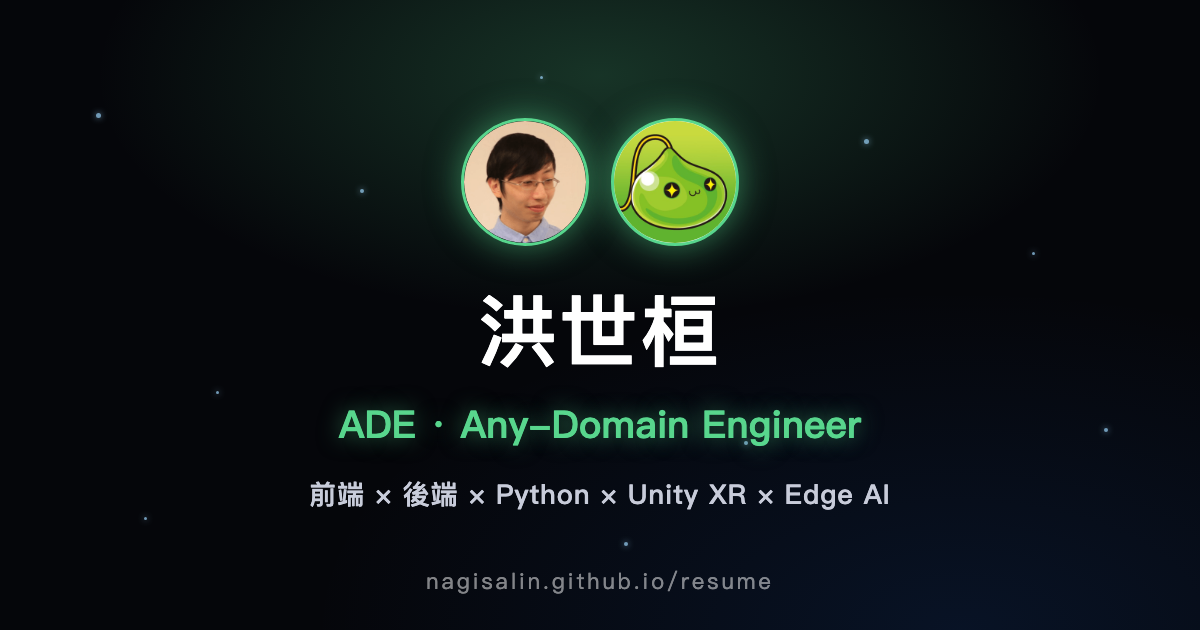
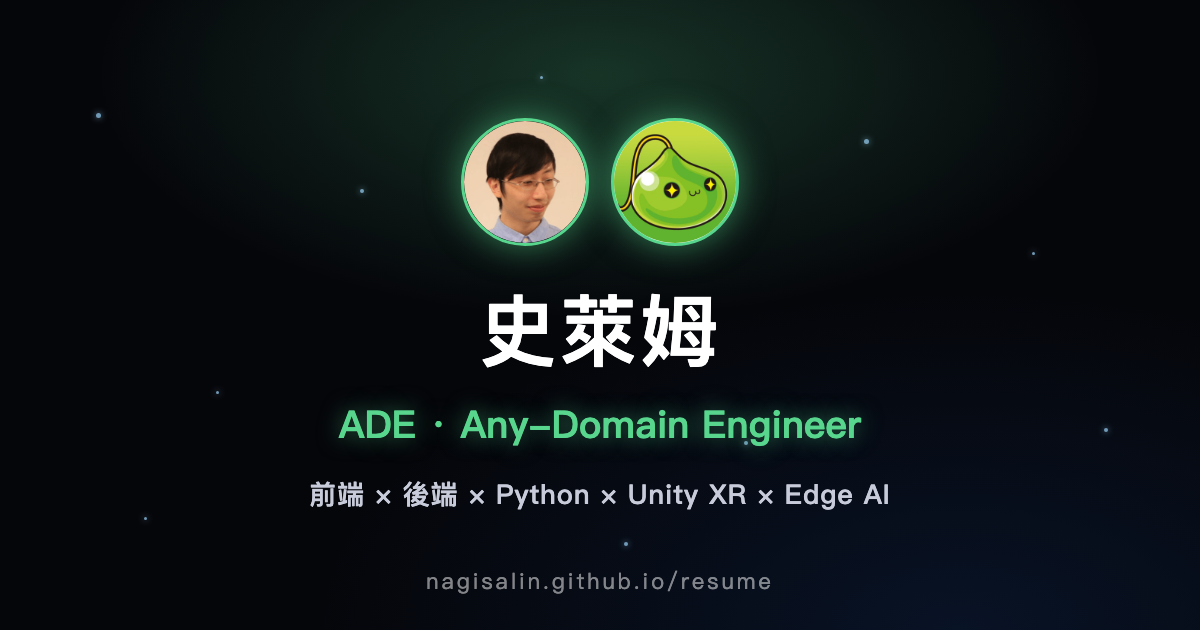
公開網站改用史萊姆 persona(在職期間降低可識別性)
- Hero 姓名 洪世桓 → 史萊姆(真人照+logo 皆保留)
- 頁面 title 與 OG/Twitter meta 同步改史萊姆
- 重新產生 OG 分享卡(og-image.png)
- 真名僅保留在 104 正式履歷

Changed region(s): [[0.4008, 0.4524, 0.6167, 0.6032]]

diff --git a/public/index.html b/public/index.html
@@ -4,21 +4,21 @@
 		<meta charset="utf-8" />
 		<meta name="viewport" content="width=device-width, initial-scale=1" />
 		<meta name="theme-color" content="#05060a" />
-		<meta name="description" content="洪世桓的互動履歷 — ADE · Any-Domain Engineer。前端 × 後端 × Python × Unity XR × Edge AI，一路把沒做過的領域做上線。" />
+		<meta name="description" content="史萊姆的互動履歷 — ADE · Any-Domain Engineer。前端 × 後端 × Python × Unity XR × Edge AI，一路把沒做過的領域做上線。" />
 
-		<title>洪世桓 · ADE — Any-Domain Engineer</title>
+		<title>史萊姆 · ADE — Any-Domain Engineer</title>
 
 		<!-- 社群分享預覽卡（Threads / FB / LINE / X 等）-->
 		<meta property="og:type" content="website" />
 		<meta property="og:url" content="https://nagisalin.github.io/resume/" />
-		<meta property="og:title" content="洪世桓 · ADE — Any-Domain Engineer" />
+		<meta property="og:title" content="史萊姆 · ADE — Any-Domain Engineer" />
 		<meta property="og:description" content="「哪都能做」工程師。前端 × 後端 × Python × Unity XR × Edge AI，一路把沒做過的領域做上線。" />
 		<meta property="og:image" content="https://nagisalin.github.io/resume/og-image.png" />
 		<meta property="og:image:width" content="1200" />
 		<meta property="og:image:height" content="630" />
 		<meta property="og:locale" content="zh_TW" />
 		<meta name="twitter:card" content="summary_large_image" />
-		<meta name="twitter:title" content="洪世桓 · ADE — Any-Domain Engineer" />
+		<meta name="twitter:title" content="史萊姆 · ADE — Any-Domain Engineer" />
 		<meta name="twitter:description" content="「哪都能做」工程師。前端 × 後端 × Python × Unity XR × Edge AI。" />
 		<meta name="twitter:image" content="https://nagisalin.github.io/resume/og-image.png" />
 

diff --git a/src/containers/Resume/Information/InfoScene.js b/src/containers/Resume/Information/InfoScene.js
@@ -147,10 +147,10 @@ const InfoScene = () => {
 			<section id="Information" key="info-static" className="InfoScene InfoScene--mobile">
 				<div className="InfoM-hero">
 					<div className="InfoScene-avatars">
-						<img src={Avatar1} alt="洪世桓" className="InfoScene-avatar" />
+						<img src={Avatar1} alt="史萊姆" className="InfoScene-avatar" />
 						<img src={Avatar2} alt="史萊姆 logo" className="InfoScene-avatar InfoScene-avatar--slime" />
 					</div>
-					<div className="InfoScene-name">洪世桓</div>
+					<div className="InfoScene-name">史萊姆</div>
 					<div className="InfoScene-role">ADE · Any-Domain Engineer</div>
 					<div className="InfoScene-tagline">{glue(`「哪都能做」工程師
 這年頭 vibe coding，工程師好像都被逼成 Any-Domain —— 什麼都得做得出來 XD`)}</div>
@@ -189,10 +189,10 @@ const InfoScene = () => {
 				{/* 第一幕：身份 */}
 				<div className="InfoScene-hero" ref={heroRef}>
 					<div className="InfoScene-avatars">
-						<img src={Avatar1} alt="洪世桓" className="InfoScene-avatar" />
+						<img src={Avatar1} alt="史萊姆" className="InfoScene-avatar" />
 						<img src={Avatar2} alt="史萊姆 logo" className="InfoScene-avatar InfoScene-avatar--slime" />
 					</div>
-					<div className="InfoScene-name">洪世桓</div>
+					<div className="InfoScene-name">史萊姆</div>
 					<div className="InfoScene-role">ADE · Any-Domain Engineer</div>
 					<div className="InfoScene-tagline">{glue(`「哪都能做」工程師
 這年頭 vibe coding，工程師好像都被逼成 Any-Domain —— 什麼都得做得出來 XD`)}</div>
